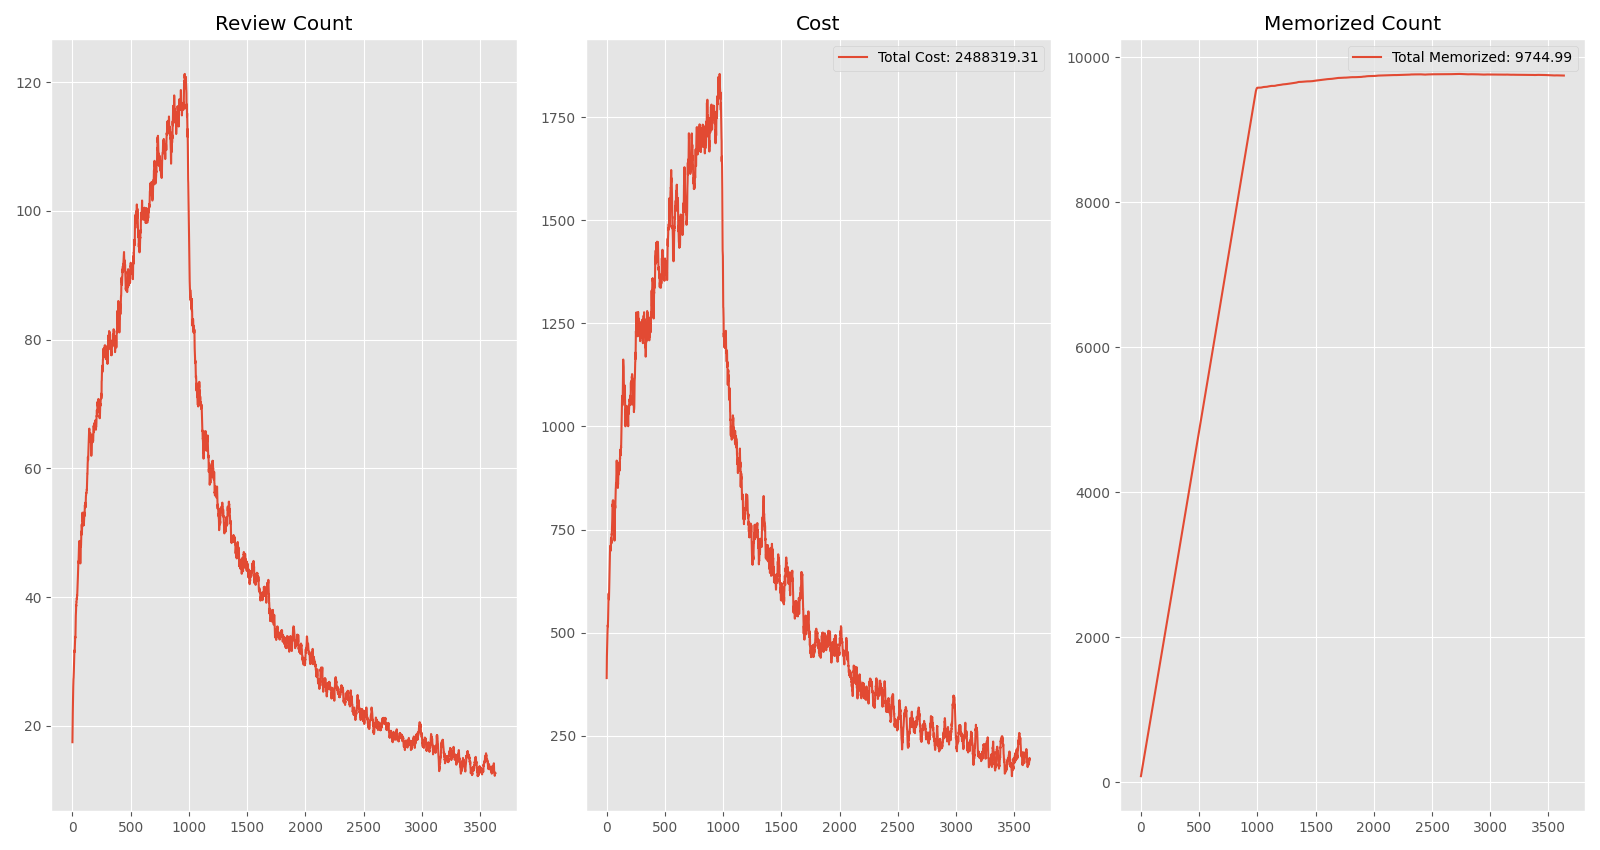
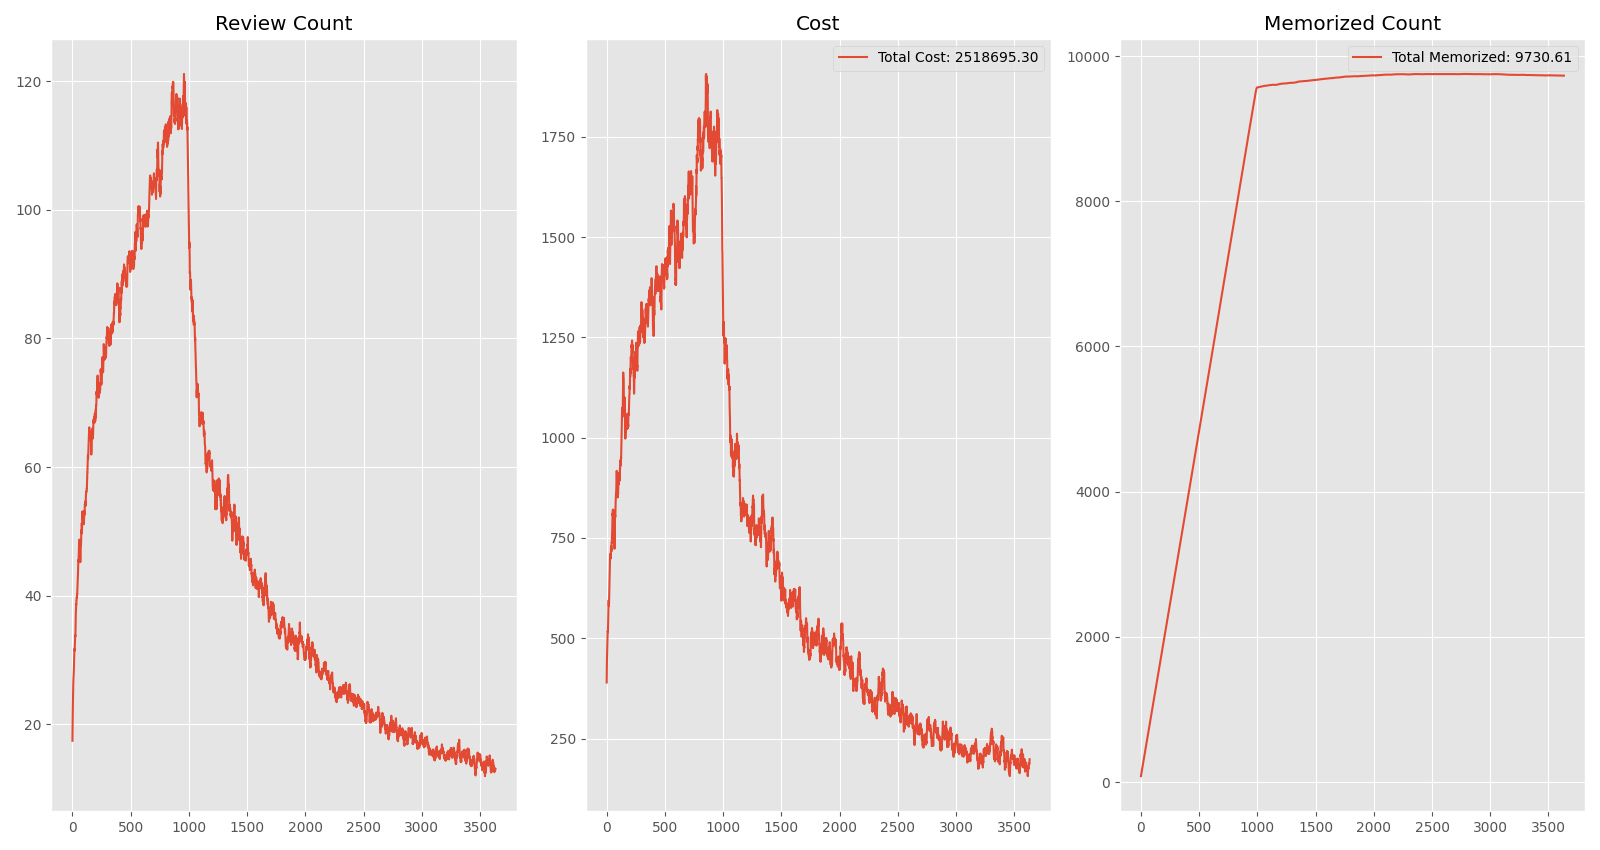
Use torch (#16)
* Progress

* Fix bellman

* Revert get cost

* format && add device fallback

* Update README.md

---------

diff --git a/script.py b/script.py
@@ -1,5 +1,6 @@
 import time
 import numpy as np
+import torch
 import matplotlib.pyplot as plt
 from simulator import (
     DEFAULT_REVIEW_COSTS,
@@ -37,6 +38,7 @@ D_EPS = 0.1
 R_MIN = 0.70
 R_MAX = 0.97
 R_EPS = 0.01
+DEVICE = "cuda" if torch.cuda.is_available() else "mps" if torch.backends.mps.is_available() else "cpu"
 
 w = [
     0.40255,
@@ -59,6 +61,61 @@ w = [
     0.51655,
     0.6621,
 ]
+
+
+def bellman_solver(
+    n_iter,
+    state_np: np.array,
+    transitions_np: list[np.array],
+    transition_probs_np: list[np.array],
+    costs_np: np.array,
+    discount_factor=1.0,
+    device=DEVICE,
+):
+    S, D, R = costs_np[0].shape
+    DTYPE = torch.float32
+    with torch.inference_mode():
+        state = torch.tensor(state_np, requires_grad=False, device=device, dtype=DTYPE)
+        transitions = [
+            torch.tensor(
+                transition_np, requires_grad=False, device=device, dtype=torch.long
+            )
+            for transition_np in transitions_np
+        ]
+        transition_probs = [
+            torch.tensor(
+                transition_prob_np, requires_grad=False, device=device, dtype=DTYPE
+            )
+            for transition_prob_np in transition_probs_np
+        ]
+        costs = [
+            torch.tensor(cost_np, requires_grad=False, device=device, dtype=DTYPE)
+            for cost_np in costs_np
+        ]
+        it = 0
+        cost_diff = 1e9
+        while it < n_iter and cost_diff > 1e-5:
+            it += 1
+
+            action_value = torch.zeros(
+                (S, D, R), requires_grad=False, device=device, dtype=DTYPE
+            )
+            for transition, transition_prob, cost in zip(
+                transitions, transition_probs, costs
+            ):
+                d, s = transition.unbind(dim=-1)
+                action_value += transition_prob * (cost + discount_factor * state[d, s])
+
+            optimal_value, optimal_action = action_value.min(dim=-1)
+            optimal_value = torch.minimum(state, optimal_value)
+            cost_diff = torch.abs(optimal_value - state).sum().item()
+            state = optimal_value
+
+            if it % 100 == 0:
+                print(f"it: {it}, cost diff: {cost_diff}")
+
+    print(f"Done. it: {it}, cost diff: {cost_diff}")
+    return state.cpu().numpy(), optimal_action.cpu().numpy()
 
 
 class SSPMMCSolver:
@@ -257,44 +314,49 @@ class SSPMMCSolver:
 
     def solve(self, n_iter=10000, verbose=True):
         """Solve the SSP-MMC problem using value iteration."""
-        start = time.time()
-        i = 0
-        cost_diff = 1000
-
         # Initial setup
         ivl_mesh = next_interval(self.s_state_mesh_3d, self.r_state_mesh_3d)
         self.r_state_mesh_3d = power_forgetting_curve(ivl_mesh, self.s_state_mesh_3d)
+        zeros = np.zeros_like(self.s_state_mesh_3d)  # For broadcasting
+        transitions = []
+        transition_probs = []
+        costs = []
 
-        while i < n_iter and cost_diff > 1e-4 * self.s_size * self.d_size:
-            expected_cost = self._calculate_expected_cost()
-
-            # Update cost matrix
-            optimal_cost = np.minimum(self.cost_matrix, expected_cost.min(axis=2))
-            cost_diff = np.sum(self.cost_matrix - optimal_cost)
-            self.cost_matrix = optimal_cost
-
-            # Update retention matrix
-            last_retention_matrix = self.retention_matrix.copy()
-            optimal_r_indices = np.argmin(expected_cost, axis=2)
-            d_indices, s_indices = np.meshgrid(
-                np.arange(self.d_size), np.arange(self.s_size), indexing="ij"
+        # Again case
+        next_s_again = self.stability_short_term(
+            self.stability_after_failure(
+                self.s_state_mesh_3d, self.d_state_mesh_3d, self.r_state_mesh_3d
             )
-            self.retention_matrix = self.r_state_mesh_3d[
-                d_indices, s_indices, optimal_r_indices
-            ]
-            r_diff = np.abs(self.retention_matrix - last_retention_matrix).sum()
+        )
+        next_d_again = self.next_d(self.d_state_mesh_3d, 1)
+        transitions.append(
+            np.stack([self.d2i(next_d_again), self.s2i(next_s_again)], axis=-1)
+        )
+        transition_probs.append(1.0 - self.r_state_mesh_3d)
+        costs.append(zeros + self.review_costs[0] * self.loss_aversion)
 
-            if verbose and i % 10 == 0:
-                print(
-                    f"iteration {i:>5}, cost diff {cost_diff:.2f}, "
-                    f"retention diff {r_diff:.2f}, "
-                    f"elapsed time {time.time() - start:.1f}s"
-                )
-            i += 1
+        # Calculate costs for each rating
+        for i, (g, review_cost) in enumerate(zip([2, 3, 4], self.review_costs[1:])):
+            next_s = self.stability_after_success(
+                self.s_state_mesh_3d, self.d_state_mesh_3d, self.r_state_mesh_3d, g
+            )
+            next_d = self.next_d(self.d_state_mesh_3d, g)
+            transitions.append(np.stack([self.d2i(next_d), self.s2i(next_s)], axis=-1))
+            transition_probs.append(self.r_state_mesh_3d * self.review_rating_prob[i])
+            costs.append(zeros + review_cost)
 
-        if verbose:
-            print(f"Time: {time.time() - start:.2f}s")
-
+        assert len(transitions) == len(transition_probs) and len(transitions) == len(
+            costs
+        )
+        self.cost_matrix, optimal_r_indices = bellman_solver(
+            n_iter, self.cost_matrix, transitions, transition_probs, costs
+        )
+        retention_d_indices, retention_s_indices = np.meshgrid(
+            np.arange(self.d_size), np.arange(self.s_size), indexing="ij"
+        )
+        self.retention_matrix = self.r_state_mesh_3d[
+            retention_d_indices, retention_s_indices, optimal_r_indices
+        ]
         return self.cost_matrix, self.retention_matrix
 
     def _evaluate_policy(self, n_iter=10000):
@@ -347,40 +409,6 @@ class SSPMMCSolver:
         ivl_mesh = next_interval(self.s_state_mesh_2d, self.r_state_mesh_2d)
         self.r_state_mesh_2d = power_forgetting_curve(ivl_mesh, self.s_state_mesh_2d)
         return self._evaluate_policy(n_iter)
-
-    def _calculate_expected_cost(self):
-        """Calculate expected cost for all possible next states."""
-        # Again case
-        next_s_again = self.stability_short_term(
-            self.stability_after_failure(
-                self.s_state_mesh_3d, self.d_state_mesh_3d, self.r_state_mesh_3d
-            )
-        )
-        next_d_again = self.next_d(self.d_state_mesh_3d, 1)
-        cost_again = (
-            self._get_cost(next_s_again, next_d_again)
-            + self.review_costs[0] * self.loss_aversion
-        )
-
-        # Calculate costs for each rating
-        costs = []
-        for g, review_cost in zip([2, 3, 4], self.review_costs[1:]):
-            next_s = self.stability_after_success(
-                self.s_state_mesh_3d, self.d_state_mesh_3d, self.r_state_mesh_3d, g
-            )
-            next_d = self.next_d(self.d_state_mesh_3d, g)
-            costs.append(self._get_cost(next_s, next_d) + review_cost)
-
-        # Combine costs according to probabilities
-        return (
-            self.r_state_mesh_3d
-            * (
-                self.review_rating_prob[0] * costs[0]
-                + self.review_rating_prob[1] * costs[1]
-                + self.review_rating_prob[2] * costs[2]
-            )
-            + (1 - self.r_state_mesh_3d) * cost_again
-        )
 
     def _get_cost(self, s, d):
         """Get cost from cost matrix for given stability and difficulty."""

diff --git a/README.md b/README.md
@@ -22,7 +22,7 @@ The best result is highlighted in **bold**. The worst result is highlighted in $
 
 | Schedulling Policy | Average number of reviews per day | Average number of minutes per day | Total knowledge at the end | Knowledge per minute |
 | --- | --- | --- | --- | --- |
-| SSP-MMC | 61.6 | 16.8 | 3381 | 201 |
+| SSP-MMC | 62.4 | 17.2 | 3378 | 197 |
 | DR=0.70 | **31.1** | 14.8 | $${\color{red}3053}$$ | 206 |
 | DR=0.73 | 32.7 | **14.4** | 3106 | 216 |
 | DR=0.76 | 36.1 | 14.7 | 3162 | 216 |
@@ -43,7 +43,7 @@ The best result is highlighted in **bold**. The worst result is highlighted in $
 
 | Schedulling Policy | Average number of reviews per day | Average number of minutes per day | Total knowledge at the end | Knowledge per minute |
 | --- | --- | --- | --- | --- |
-| SSP-MMC | 46.2 | **11.4** | 9745 | **854** |
+| SSP-MMC | 46.6 | **11.6** | 9731 | **842** |
 | DR=0.70 | **29.6** | 12.0 | 8685 | 724 |
 | DR=0.73 | 31.1 | 11.8 | 8918 | 756 |
 | DR=0.76 | 33.5 | 11.8 | 9020 | 762 |
